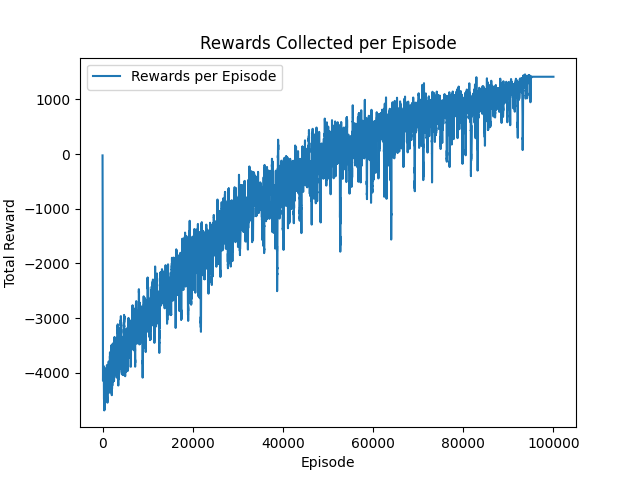
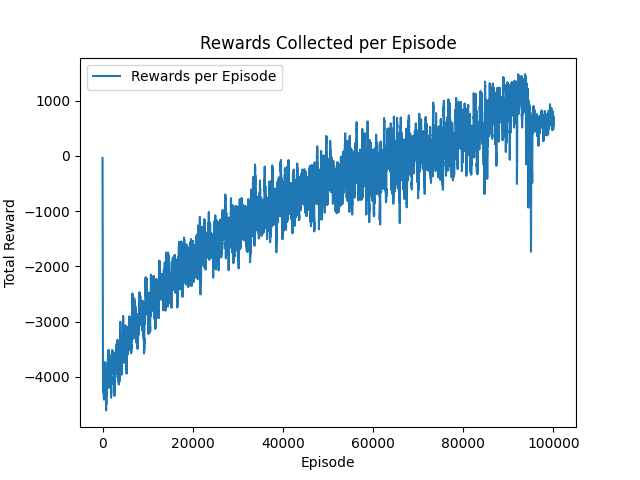
clean-up

diff --git a/nw_environment.py b/nw_environment.py
@@ -109,35 +109,19 @@ def CalculateTransmissionDelay(nw=None, packet =  None,action=-1):
 
 def rewardCal(now, packet, action, nw, env,priority,overtime):
     overtime_threshold = overtime
-    # queue_length_reward = 0.5
-    # balance_reward = 2
     delay_penalty = 0.1
     speed_reward = 0.005
     reward = 0
-    # print(f"now:{now} timestamp:{timestamp} action:{action} priority:{priority}")
-    # print(f"Total packets reached:{Total_packets_reached} Total packets:{Total_packets}")
     sw1_sw2 = len(nw.sw1_sw2_resource.queue)
     sw1_es3 = len(nw.sw1_es3_resource.queue)
     sw2_es3 = len(nw.sw2_es3_resource.queue)
     
-    # if action == 0 or action == 1:
-    #     expected_time = max((nw.sw1_sw2_expected_time - now),0)
-    # elif action == 2:
-    #     expected_time = max((nw.sw1_es3_expected_time - now),0)
-    # elif action == 3:
-    #     expected_time = max((nw.sw2_es3_expected_time - now),0)
-    # else:
-    #     expected_time = 0
-
     expected_time =  max(nw.sw1_sw2_expected_time, nw.sw1_es3_expected_time, nw.sw2_es3_expected_time,nw.sw2_sw1_expected_time)
     reward -= 1
     if action ==2 :
         expected_time_per_packet = nw.sw1_es3_expected_time
     elif action == 3:
         expected_time_per_packet = nw.sw2_es3_expected_time
-    # if priority == 1:
-    #     reward += 3
-    # Reward/Penalty for timely delivery
    
     if action == 2 or action == 3:
 
@@ -154,46 +138,8 @@ def rewardCal(now, packet, action, nw, env,priority,overtime):
             if overtime_threshold < expected_time:
                 reward -= delay_penalty * (expected_time - overtime_threshold)
  
-    # if action == 0 and (len(nw.sw2.items)+ len(nw.sw2_es3_resource.queue) ) == 0:
-    #     reward += 2
-    # if action == 1 and (len(nw.sw1.items)+ len(nw.sw1_es3_resource.queue) ) == 0:
-    #     reward += 2
-
-    # Reward for balanced load
-    # if timestamp + overtime_threshold > expected_time + now:
-    #     if action == 0:
-    #         reward += speed_reward * nw.link_speeds["sw1"]["sw2"]
-    #     elif action == 1:
-    #         reward += speed_reward * nw.link_speeds["sw2"]["sw1"]
-    #     elif action == 2:
-    #         reward += speed_reward * nw.link_speeds["sw1"]["es3"]
-    #     elif action == 3:
-    #         reward += speed_reward * nw.link_speeds["sw2"]["es3"]
-
-        # queue_length_diff = abs(len(nw.sw1.items) - len(nw.sw2.items))
-        # reward -= balance_reward * queue_length_diff
-
-        # Penalty for excessive queue lengths
     if len(nw.sw1.items) > nw.max_capacity/2 or len(nw.sw2.items) > nw.max_capacity/2:
             reward -= 10
-
-
-        
-
-        # Positive reward for actions that help balance the load
-        # if queue_length_diff > 0:
-        #     if len(nw.sw1.items) > len(nw.sw2.items) and action == 0:  # sw1 to sw2
-        #         reward += queue_length_reward
-        #     elif len(nw.sw2.items) > len(nw.sw1.items) and action == 1:  # sw2 to sw1
-        #         reward += queue_length_reward
-
-        # Negative reward for actions that exacerbate load imbalance
-        # if queue_length_diff > 0:
-        #     if len(nw.sw1.items) > len(nw.sw2.items) and action == 1:  # sw2 to sw1
-        #         reward -= queue_length_reward
-        #     elif len(nw.sw2.items) > len(nw.sw1.items) and action == 0:  # sw1 to sw2
-        #         reward -= queue_length_reward
-
 
     return reward
 
@@ -207,11 +153,6 @@ def resource_handler(nw, action, packet, env, TransmissionDelay, state):
 
     if action == 0:
         transfer = "sw1 to sw2"
-        # if nw.sw1_sw2_expected_time < env.now:
-        #     nw.sw1_sw2_expected_time = env.now + TransmissionDelay
-        # else:
-        #     nw.sw1_sw2_expected_time +=  TransmissionDelay
-        # print(f"sw1_sw2_expected_time:{nw.sw1_sw2_expected_time} env.now:{env.now} TransmissionDelay:{TransmissionDelay}")
         with nw.sw1_sw2_resource.request() as request:
             yield request
             yield env.timeout(TransmissionDelay)
@@ -222,11 +163,6 @@ def resource_handler(nw, action, packet, env, TransmissionDelay, state):
 
     elif action == 1:
         transfer = "sw2 to sw1"
-        # if nw.sw1_sw2_expected_time < env.now:
-        #     nw.sw1_sw2_expected_time = env.now + TransmissionDelay
-        # else:    
-        #     nw.sw1_sw2_expected_time += TransmissionDelay
-        # print(f"sw1_sw2_expected_time:{nw.sw1_sw2_expected_time} env.now:{env.now} TransmissionDelay:{TransmissionDelay}")
         with nw.sw1_sw2_resource.request() as request:
             yield request
             yield env.timeout(TransmissionDelay)
@@ -237,12 +173,6 @@ def resource_handler(nw, action, packet, env, TransmissionDelay, state):
 
     elif action == 2:
         transfer = "sw1 to es3"
-        # if nw.sw1_es3_expected_time < env.now:
-        #     nw.sw1_es3_expected_time = env.now + TransmissionDelay
-        # else:
-        #     nw.sw1_es3_expected_time +=  TransmissionDelay
-        Total_packets_reached += 1
-        # print(f"sw1_es3_expected_time:{nw.sw1_es3_expected_time} env.now:{env.now} TransmissionDelay:{TransmissionDelay}")
         with nw.sw1_es3_resource.request() as request:
             yield request
             yield env.timeout(TransmissionDelay)
@@ -252,12 +182,6 @@ def resource_handler(nw, action, packet, env, TransmissionDelay, state):
 
     elif action == 3:
         transfer = "sw2 to es3"
-        # if nw.sw2_es3_expected_time < env.now:
-        #     nw.sw2_es3_expected_time = env.now + TransmissionDelay
-        # else:
-        #     nw.sw2_es3_expected_time +=  TransmissionDelay
-        Total_packets_reached += 1
-        # print(f"sw2_es3_expected_time:{nw.sw2_es3_expected_time} env.now:{env.now} TransmissionDelay:{TransmissionDelay}")
         with nw.sw2_es3_resource.request() as request:
             yield request
             yield env.timeout(TransmissionDelay)

diff --git a/sim.py b/sim.py
@@ -63,7 +63,7 @@ class NetworkEnvironment:
             packet = Packet(uuid.uuid4(),src, dst,timestamp= self.env.now,packet_size=packet_size)
             yield host.put(packet)
             packet_number -= 1
-            yield self.env.timeout(5)
+            yield self.env.timeout(1)
 
             
     def display(self):
